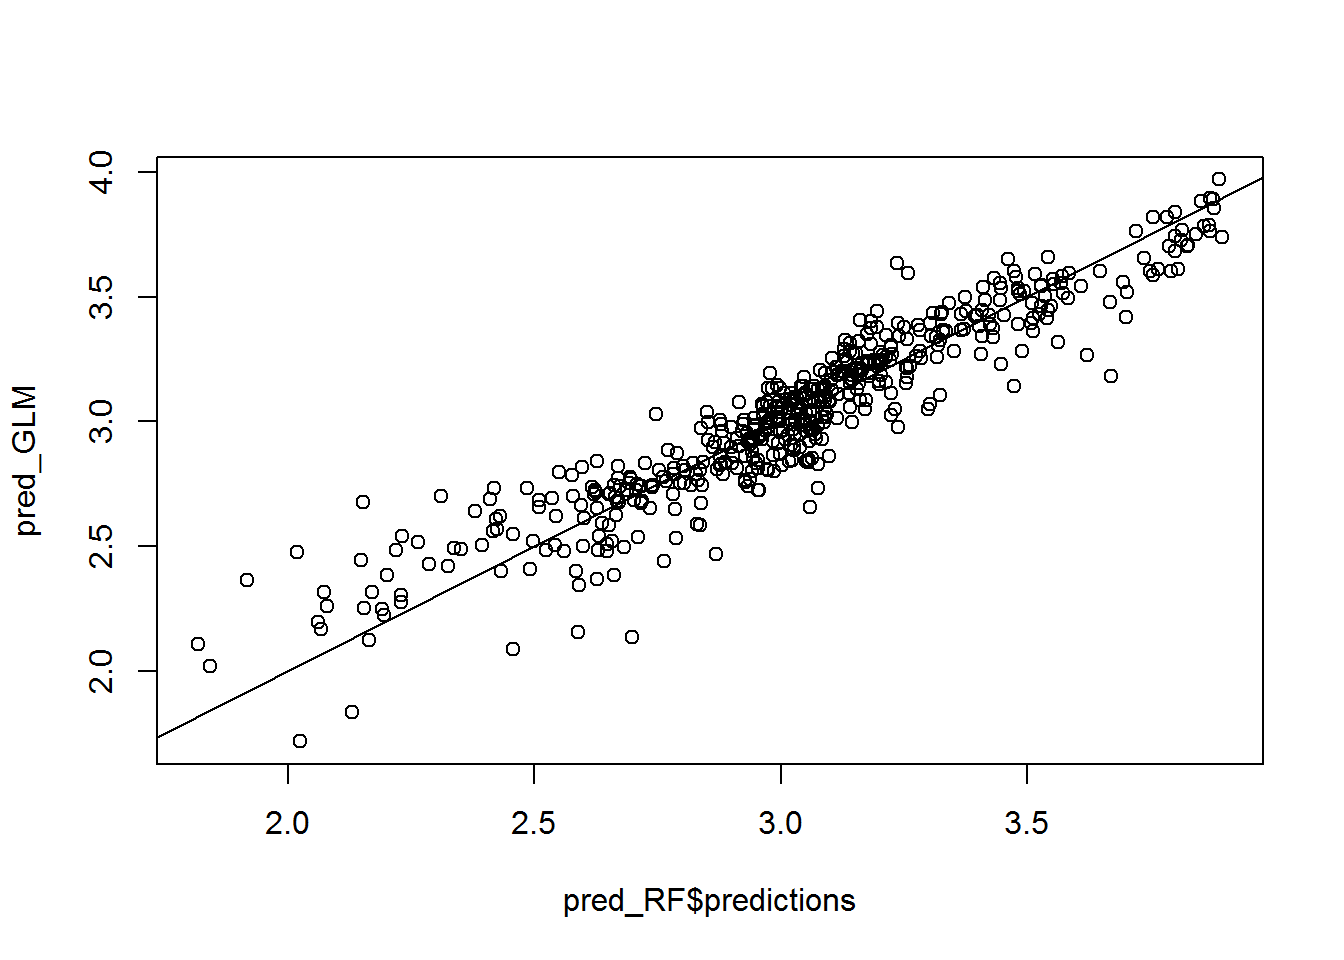
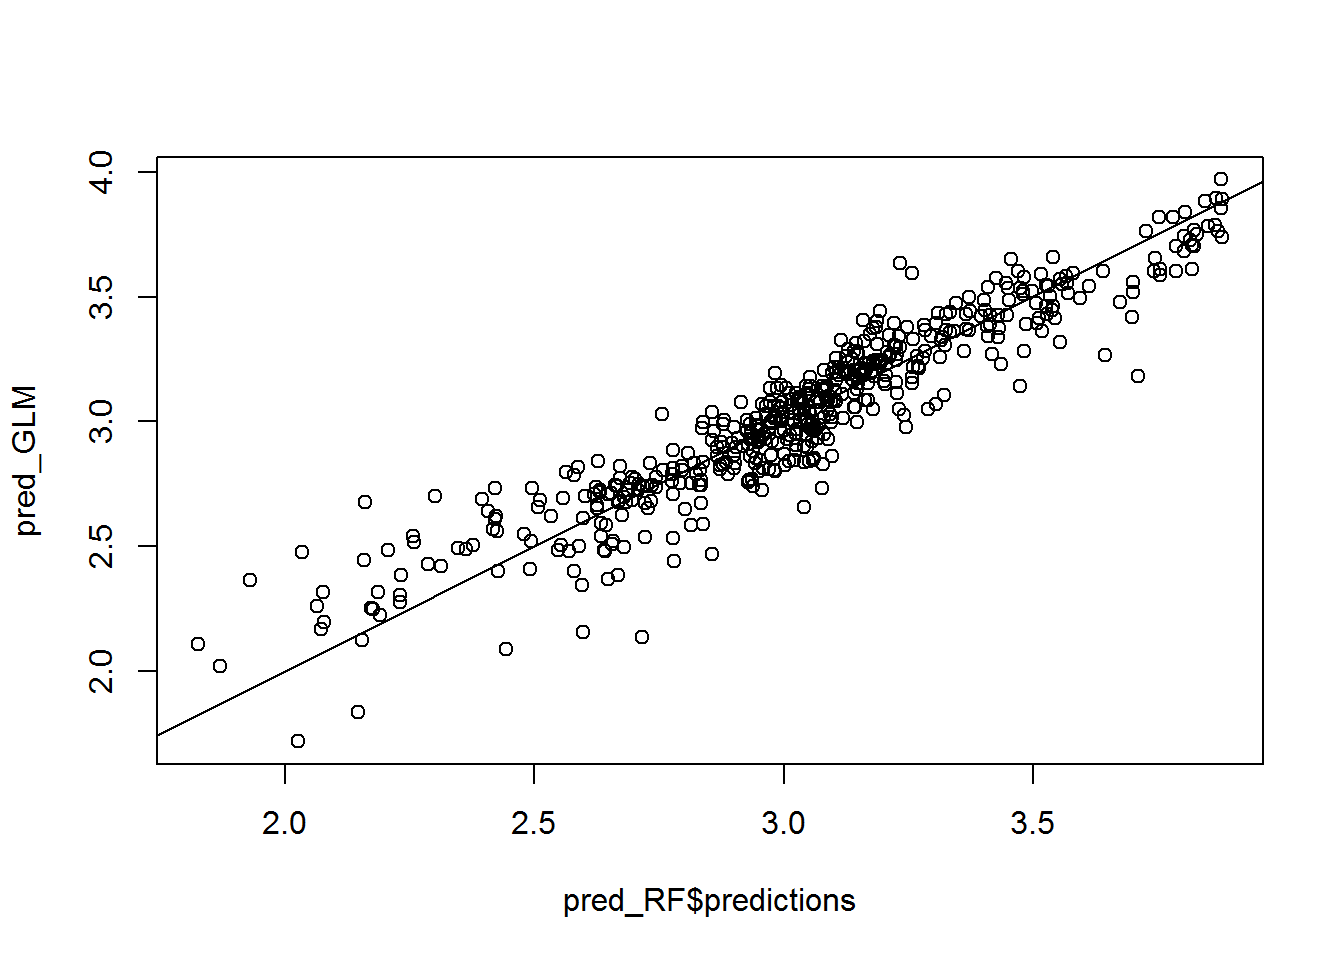
build site after new post

diff --git a/content/post/2019-01-23-exploring-process-mining.html b/content/post/2019-01-23-exploring-process-mining.html
@@ -1,7 +1,7 @@
 ---
 title: Exploring Process Mining in R
 author: Gertjan Verhoeven
-date: '2019-01-23'
+date: '2019-06-20'
 summary: In this post, we'll explore the BupaR suite of Process Mining packages created by Gert Janssenswillen of Hasselt University.
 slug: exploring-process-mining
 draft: FALSE
@@ -9,6 +9,7 @@ categories:
   - R
 tags:
   - process mining
+baseurl: "https://gsverhoeven.github.io"
 header:
   image: "headers/ceiling-clean-clinic-247786.jpg"
   preview: FALSE
@@ -17,32 +18,106 @@ header:
 
 
 
-<p>In this post, we’ll explore the BupaR suite of Process Mining packages created by Jan Wijffels. After installing all required packages, we can load the whole “bupaverse” by loading the <code>bupaR</code> package.</p>
-<p>We start with exploring the <code>patients</code> dataset contained in the <code>eventdataR</code> package.</p>
-<pre class="r"><code>library(bupaR)
+<p>In this post, we’ll explore the <code>BupaR</code> suite of <em>Process Mining</em> packages created by <em>Gert Janssenswillen</em> from Hasselt University.</p>
+<p>We start with exploring the <code>patients</code> dataset contained in the <code>eventdataR</code> package. According to the documentation, this is an “Artifical eventlog about patients”.</p>
+<div id="getting-started" class="section level1">
+<h1>Getting started</h1>
+<p>After installing all required packages, we can load the whole “bupaverse” by loading the <code>bupaR</code> package.</p>
+<pre class="r"><code>library(ggplot2)
+library(bupaR)
+#library(eventdataR)
 
 df &lt;- eventdataR::patients</code></pre>
-<pre class="r"><code>str(df)</code></pre>
-<pre><code>## Classes &#39;eventlog&#39;, &#39;tbl_df&#39;, &#39;tbl&#39; and &#39;data.frame&#39;:    5442 obs. of  7 variables:
-##  $ handling         : Factor w/ 7 levels &quot;Blood test&quot;,&quot;Check-out&quot;,..: 5 5 5 5 5 5 5 5 5 5 ...
-##  $ patient          : chr  &quot;1&quot; &quot;2&quot; &quot;3&quot; &quot;4&quot; ...
-##  $ employee         : Factor w/ 7 levels &quot;r1&quot;,&quot;r2&quot;,&quot;r3&quot;,..: 1 1 1 1 1 1 1 1 1 1 ...
-##  $ handling_id      : chr  &quot;1&quot; &quot;2&quot; &quot;3&quot; &quot;4&quot; ...
-##  $ registration_type: Factor w/ 2 levels &quot;complete&quot;,&quot;start&quot;: 2 2 2 2 2 2 2 2 2 2 ...
-##  $ time             : POSIXct, format: &quot;2017-01-02 11:41:53&quot; &quot;2017-01-02 11:41:53&quot; ...
-##  $ .order           : int  1 2 3 4 5 6 7 8 9 10 ...
-##  - attr(*, &quot;spec&quot;)=
-##   .. cols(
-##   ..   handling = col_character(),
-##   ..   patient = col_integer(),
-##   ..   employee = col_character(),
-##   ..   handling_id = col_integer(),
-##   ..   registration_type = col_character(),
-##   ..   time = col_datetime(format = &quot;&quot;)
-##   .. )
-##  - attr(*, &quot;case_id&quot;)= chr &quot;patient&quot;
-##  - attr(*, &quot;activity_id&quot;)= chr &quot;handling&quot;
-##  - attr(*, &quot;activity_instance_id&quot;)= chr &quot;handling_id&quot;
-##  - attr(*, &quot;lifecycle_id&quot;)= chr &quot;registration_type&quot;
-##  - attr(*, &quot;resource_id&quot;)= chr &quot;employee&quot;
-##  - attr(*, &quot;timestamp&quot;)= chr &quot;time&quot;</code></pre>
+<p>The data is already in <code>event log</code> format, let’s check it out.</p>
+<pre class="r"><code>summary(df)</code></pre>
+<pre><code>## Number of events:  5442
+## Number of cases:  500
+## Number of traces:  7
+## Number of distinct activities:  7
+## Average trace length:  10.884
+## 
+## Start eventlog:  2017-01-02 11:41:53
+## End eventlog:  2018-05-05 07:16:02</code></pre>
+<pre><code>##                   handling      patient          employee 
+##  Blood test           : 474   Length:5442        r1:1000  
+##  Check-out            : 984   Class :character   r2:1000  
+##  Discuss Results      : 990   Mode  :character   r3: 474  
+##  MRI SCAN             : 472                      r4: 472  
+##  Registration         :1000                      r5: 522  
+##  Triage and Assessment:1000                      r6: 990  
+##  X-Ray                : 522                      r7: 984  
+##  handling_id        registration_type      time                    
+##  Length:5442        complete:2721     Min.   :2017-01-02 11:41:53  
+##  Class :character   start   :2721     1st Qu.:2017-05-06 17:15:18  
+##  Mode  :character                     Median :2017-09-08 04:16:50  
+##                                       Mean   :2017-09-02 20:52:34  
+##                                       3rd Qu.:2017-12-22 15:44:11  
+##                                       Max.   :2018-05-05 07:16:02  
+##                                                                    
+##      .order    
+##  Min.   :   1  
+##  1st Qu.:1361  
+##  Median :2722  
+##  Mean   :2722  
+##  3rd Qu.:4082  
+##  Max.   :5442  
+## </code></pre>
+<p>So we learn that there are 500 “cases”, i.e. patients. There are 7 different activities.</p>
+<p>Let’s check out the data for a single patient:</p>
+<pre class="r"><code>df %&gt;% filter(patient == 1) %&gt;% 
+  arrange(handling_id) #%&gt;% </code></pre>
+<pre><code>## Event log consisting of:
+## 12 events
+## 1 traces
+## 1 cases
+## 6 activities
+## 6 activity instances
+## 
+## # A tibble: 12 x 7
+##    handling patient employee handling_id registration_ty~
+##    &lt;fct&gt;    &lt;chr&gt;   &lt;fct&gt;    &lt;chr&gt;       &lt;fct&gt;           
+##  1 Registr~ 1       r1       1           start           
+##  2 Registr~ 1       r1       1           complete        
+##  3 Blood t~ 1       r3       1001        start           
+##  4 Blood t~ 1       r3       1001        complete        
+##  5 MRI SCAN 1       r4       1238        start           
+##  6 MRI SCAN 1       r4       1238        complete        
+##  7 Discuss~ 1       r6       1735        start           
+##  8 Discuss~ 1       r6       1735        complete        
+##  9 Check-o~ 1       r7       2230        start           
+## 10 Check-o~ 1       r7       2230        complete        
+## 11 Triage ~ 1       r2       501         start           
+## 12 Triage ~ 1       r2       501         complete        
+## # ... with 2 more variables: time &lt;dttm&gt;, .order &lt;int&gt;</code></pre>
+<pre class="r"><code> # select(handling, handling_id, registration_type) # does not work</code></pre>
+<p>We learn that each “handling” has a separate start and complete timestamp.</p>
+</div>
+<div id="traces" class="section level1">
+<h1>Traces</h1>
+<p>The summary info of the event log also counts so-called “traces”. A trace is defined a unique sequence of events in the event log. Apparently, there are only seven different traces (possible sequences). Let’s visualize them.</p>
+<p>To visualize all traces, we set <code>coverage</code> to 1.0.</p>
+<pre class="r"><code>df %&gt;% trace_explorer(type = &quot;frequent&quot;, coverage = 1.0)</code></pre>
+<p><img src="/post/2019-01-23-exploring-process-mining_files/figure-html/unnamed-chunk-4-1.png" width="672" /> So there are a few traces (0.6%) that do not end with a check-out. Ignoring these rare cases, we find that there are two types of cases:</p>
+<ul>
+<li>Cases that get an X-ray</li>
+<li>Cases that get a blood test followed by an MRI scan</li>
+</ul>
+</div>
+<div id="the-dotted-chart" class="section level1">
+<h1>The dotted chart</h1>
+<p>A really powerful visualization in process mining comes in the form of a “dotted chart”. The dotted chart function produces a <code>ggplot</code> graph, which is nice, because so we can actually tweak the graph as we can with regular ggplot objects.</p>
+<p>It has two nice use cases. The first is when we plot actual time on the x-axis, and sort the cases by starting date.</p>
+<pre class="r"><code>df %&gt;% dotted_chart(x = &quot;absolute&quot;, sort = &quot;start&quot;) + ggtitle(&quot;All cases&quot;) +
+  theme_gray()</code></pre>
+<p><img src="/post/2019-01-23-exploring-process-mining_files/figure-html/unnamed-chunk-5-1.png" width="672" /></p>
+<p>The slope of this graphs learns us the rate of new cases, and if this changes over time. Here it appears constant, with 500 cases divided over five quarter years.</p>
+<p>The second is to align all cases relative to the first event, and sort on duration of the whole sequence of events.</p>
+<pre class="r"><code>df %&gt;% dotted_chart(x = &quot;relative&quot;, sort = &quot;duration&quot;) + ggtitle(&quot;All cases&quot;) +
+  theme_gray()</code></pre>
+<p><img src="/post/2019-01-23-exploring-process-mining_files/figure-html/unnamed-chunk-6-1.png" width="672" /></p>
+<p>A nice pattern emerges, where all cases start with registration, then quickly proceed to triage and assessment, after that, a time varying period of 1-10 days follows where either the blood test + MRI scan, or the X-ray is performed, followed by discussing the results. Finally, check out occurs.</p>
+</div>
+<div id="conclusion" class="section level1">
+<h1>Conclusion</h1>
+<p>To conclude, the process mining approach to analyze time series event data appears highly promising. The dotted chart is a great addition to my data visualization repertoire, and the process mining folks appear to have at lot more goodies, such as Trace Alignment.</p>
+</div>

diff --git a/content/post/interaction_detection/interaction-detection.html b/content/post/interaction_detection/interaction-detection.html
@@ -82,8 +82,8 @@ my_ranger_diff</code></pre>
 ## Target node size:                 5 
 ## Variable importance mode:         permutation 
 ## Splitrule:                        variance 
-## OOB prediction error (MSE):       5.023919 
-## R squared (OOB):                  0.6661671</code></pre>
+## OOB prediction error (MSE):       5.215528 
+## R squared (OOB):                  0.6607762</code></pre>
 <p>It turns out the RF can “explain” 67% of these discrepancies.</p>
 <pre class="r"><code>myres_tmp &lt;- ranger::importance(my_ranger_diff)
 myres &lt;- cbind(names(myres_tmp), myres_tmp,  i = 1)
@@ -173,8 +173,8 @@ my_ranger_diff2</code></pre>
 ## Target node size:                 5 
 ## Variable importance mode:         permutation 
 ## Splitrule:                        variance 
-## OOB prediction error (MSE):       5.445409 
-## R squared (OOB):                  0.4430861</code></pre>
+## OOB prediction error (MSE):       5.585358 
+## R squared (OOB):                  0.438492</code></pre>
 <pre class="r"><code>myres_tmp &lt;- ranger::importance(my_ranger_diff2)
 myres &lt;- cbind(names(myres_tmp), myres_tmp,  i = 1)
 #my_rownames &lt;- row.names(myres)
@@ -311,8 +311,8 @@ my_ranger_log_diff</code></pre>
 ## Target node size:                 5 
 ## Variable importance mode:         permutation 
 ## Splitrule:                        variance 
-## OOB prediction error (MSE):       0.009105683 
-## R squared (OOB):                  0.5345414</code></pre>
+## OOB prediction error (MSE):       0.009248139 
+## R squared (OOB):                  0.5271383</code></pre>
 <p>The RF indicates that 54% of the discrepancy can be “explained” by RF.</p>
 <pre class="r"><code>myres_tmp &lt;- ranger::importance(my_ranger_log_diff)
 myres &lt;- cbind(names(myres_tmp), myres_tmp,  i = 1)
@@ -406,8 +406,8 @@ my_ranger_log_diff2</code></pre>
 ## Target node size:                 5 
 ## Variable importance mode:         permutation 
 ## Splitrule:                        variance 
-## OOB prediction error (MSE):       0.00890021 
-## R squared (OOB):                  0.5112434</code></pre>
+## OOB prediction error (MSE):       0.008679761 
+## R squared (OOB):                  0.5241287</code></pre>
 <pre class="r"><code>myres_tmp &lt;- ranger::importance(my_ranger_log_diff2)
 myres &lt;- cbind(names(myres_tmp), myres_tmp,  i = 1)
 #my_rownames &lt;- row.names(myres)

diff --git a/content/post/bart_vs_grf/BART-vs-grf.html b/content/post/bart_vs_grf/BART-vs-grf.html
@@ -23,12 +23,12 @@ header:
 library(dbarts)
 library(ggplot2)
 library(tidyverse)</code></pre>
-<pre><code>## -- Attaching packages ------------------------------------------------------------- tidyverse 1.2.1 --</code></pre>
+<pre><code>## -- Attaching packages ----------------------------------------------- tidyverse 1.2.1 --</code></pre>
 <pre><code>## v tibble  2.0.1     v purrr   0.2.5
 ## v tidyr   0.8.2     v dplyr   0.7.8
 ## v readr   1.3.1     v stringr 1.3.1
 ## v tibble  2.0.1     v forcats 0.3.0</code></pre>
-<pre><code>## -- Conflicts ---------------------------------------------------------------- tidyverse_conflicts() --
+<pre><code>## -- Conflicts -------------------------------------------------- tidyverse_conflicts() --
 ## x dplyr::filter() masks stats::filter()
 ## x dplyr::lag()    masks stats::lag()</code></pre>
 <pre class="r"><code>library(grf)

diff --git a/content/post/2019-03-21-caret_validation_set_approach.html b/content/post/2019-03-21-caret_validation_set_approach.html
@@ -168,10 +168,10 @@ createRandomDataPartition &lt;- function(y, times, p) {
 
 createRandomDataPartition(1:10, times = 2, p = 0.5)</code></pre>
 <pre><code>## $Resample1
-## [1] 7 2 4 5 6
+## [1]  1  7  3  6 10
 ## 
 ## $Resample2
-## [1] 4 6 5 3 9</code></pre>
+## [1] 7 6 8 9 4</code></pre>
 </div>
 <div id="the-validation-set-approach-without-caret" class="section level1">
 <h1>The validation set approach without caret</h1>
